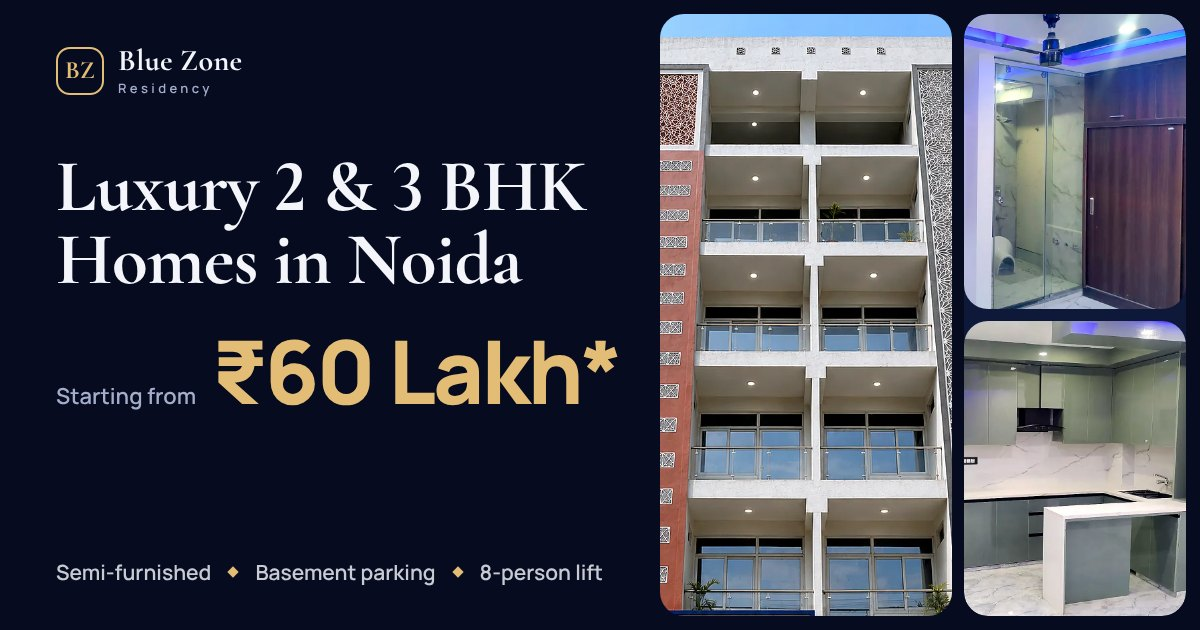
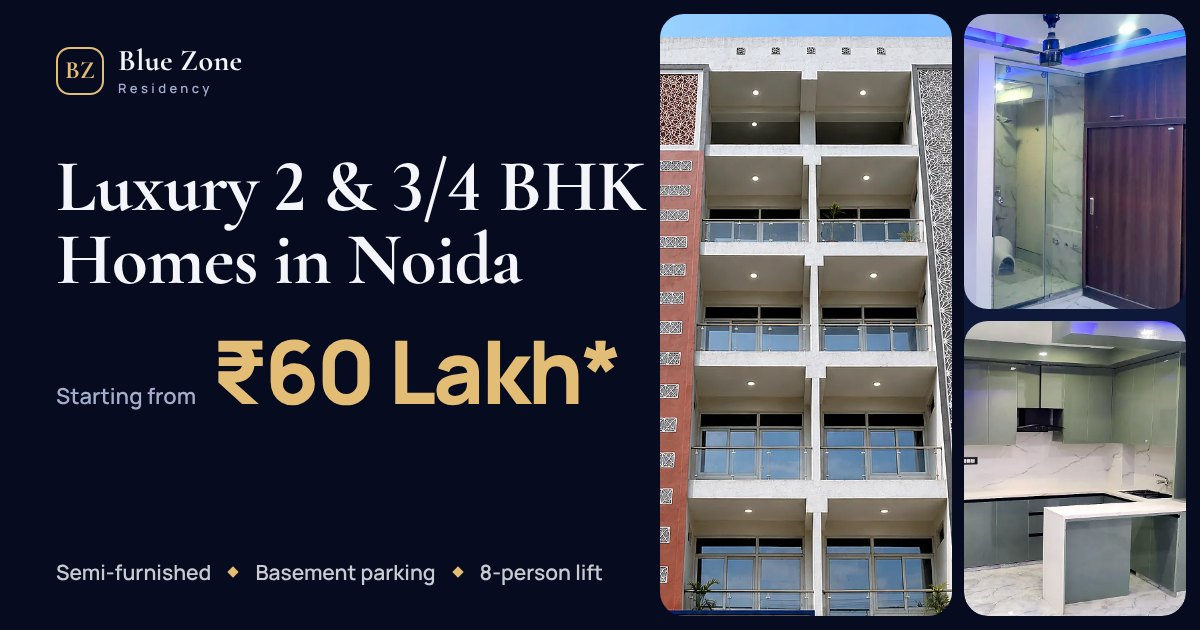
Add files via upload

Changed region(s): [[0.3392, 0.2413, 0.555, 0.3317]]

diff --git a/index.html b/index.html
@@ -3,15 +3,15 @@
 <head>
     <meta charset="UTF-8">
     <meta name="viewport" content="width=device-width, initial-scale=1, viewport-fit=cover">
-    <title>Blue Zone Residency Noida | 2 &amp; 3 BHK Luxury Flats from ₹60 Lakh</title>
-    <meta name="description" content="Semi-furnished 2 &amp; 3 BHK flats in Noida with semi-modular kitchen, wardrobe, basement parking, lift and CCTV. From ₹60 Lakh. Book a site visit at Blue Zone Residency.">
+    <title>Blue Zone Residency Noida | 2 &amp; 3/4 BHK Luxury Flats from ₹60 Lakh</title>
+    <meta name="description" content="Semi-furnished 2 &amp; 3/4 BHK flats in Noida with semi-modular kitchen, wardrobe, basement parking, lift and CCTV. From ₹60 Lakh. Book a site visit at Blue Zone Residency.">
     <meta name="theme-color" content="#060b1f">
     <link rel="canonical" href="https://www.bzr.co.in/">
 
     <!-- Link preview (WhatsApp, Facebook, LinkedIn, X) -->
     <meta property="og:type" content="website">
     <meta property="og:site_name" content="Blue Zone Residency">
-    <meta property="og:title" content="Luxury 2 &amp; 3 BHK Homes in Noida from ₹60 Lakh*">
+    <meta property="og:title" content="Luxury 2 &amp; 3/4 BHK Homes in Noida from ₹60 Lakh*">
     <meta property="og:description" content="Semi-furnished flats with semi-modular kitchen and wardrobe, basement parking, 8-person lift and CCTV. See photos and book your site visit.">
     <meta property="og:url" content="https://www.bzr.co.in/">
     <meta property="og:image" content="https://www.bzr.co.in/og-image.jpg">
@@ -20,7 +20,7 @@
     <meta property="og:image:alt" content="Blue Zone Residency, Noida: jaali facade, interiors and starting price of 60 lakh">
     <meta property="og:locale" content="en_IN">
     <meta name="twitter:card" content="summary_large_image">
-    <meta name="twitter:title" content="Luxury 2 &amp; 3 BHK Homes in Noida from ₹60 Lakh*">
+    <meta name="twitter:title" content="Luxury 2 &amp; 3/4 BHK Homes in Noida from ₹60 Lakh*">
     <meta name="twitter:description" content="Semi-furnished flats, basement parking, 8-person lift and CCTV. Book your site visit.">
     <meta name="twitter:image" content="https://www.bzr.co.in/og-image.jpg">
 
@@ -42,7 +42,7 @@
           "name": "Blue Zone Residency",
           "url": "https://www.bzr.co.in/",
           "image": "https://www.bzr.co.in/og-image.jpg",
-          "description": "Semi-furnished 2 BHK and 3 BHK residences in Noida with semi-modular kitchen, wardrobe, false ceiling, basement parking, 8-person lift, CCTV, steam bath on the roof and terrace garden.",
+          "description": "Semi-furnished 2 BHK and 3/4 BHK residences in Noida with semi-modular kitchen, wardrobe, false ceiling, basement parking, 8-person lift, CCTV, steam bath on the roof and terrace garden.",
           "telephone": "+919650404888",
           "address": { "@type": "PostalAddress", "addressLocality": "Noida", "addressRegion": "Uttar Pradesh", "addressCountry": "IN" },
           "numberOfBedrooms": [2, 3],
@@ -68,9 +68,9 @@
           "@type": "FAQPage",
           "mainEntity": [
             { "@type": "Question", "name": "Are the flats furnished?", "acceptedAnswer": { "@type": "Answer", "text": "The flats are semi-furnished, with a semi-modular kitchen, wardrobe, lights, fans and false ceiling." } },
-            { "@type": "Question", "name": "What materials and fittings are used?", "acceptedAnswer": { "@type": "Answer", "text": "Residences use vitrified tile flooring, granite stone kitchen counters with stainless steel sinks, uPVC window frames with toughened glass and putty with OBD finished walls. The 3 BHK residences feature bathroom fittings from Jaguar, Astral and Hindware." } },
+            { "@type": "Question", "name": "What materials and fittings are used?", "acceptedAnswer": { "@type": "Answer", "text": "Residences use vitrified tile flooring, granite stone kitchen counters with stainless steel sinks, uPVC window frames with toughened glass and putty with OBD finished walls. The 3/4 BHK residences feature bathroom fittings from Jaguar, Astral and Hindware." } },
             { "@type": "Question", "name": "Is basement parking included?", "acceptedAnswer": { "@type": "Answer", "text": "Yes. Basement car parking is part of the building layout for residents." } },
-            { "@type": "Question", "name": "What are the configurations and starting prices?", "acceptedAnswer": { "@type": "Answer", "text": "2 BHK residences (1081 or 1169 sq ft) start from ₹60 Lakh and 3 BHK residences (2250 sq ft) start from ₹1.25 Crore. Prices are indicative; please contact us for current pricing and availability." } },
+            { "@type": "Question", "name": "What are the configurations and starting prices?", "acceptedAnswer": { "@type": "Answer", "text": "2 BHK residences (1081 or 1169 sq ft) start from ₹60 Lakh and 3/4 BHK residences (2250 sq ft) start from ₹1.25 Crore. Prices are indicative; please contact us for current pricing and availability." } },
             { "@type": "Question", "name": "How well connected is the location?", "acceptedAnswer": { "@type": "Answer", "text": "The City Center, Metro Station, hospitals, an international school and the Interstate Bus Stand are about 5 minutes away. Delhi is about 15 minutes away and the upcoming Jewar Airport is about 40 km away." } },
             { "@type": "Question", "name": "How do I book a site visit?", "acceptedAnswer": { "@type": "Answer", "text": "Fill in the enquiry form on this page, message us on WhatsApp or call +91 96504 04888 and our team will confirm a convenient slot." } }
           ]
@@ -161,7 +161,7 @@
         </div>
         <div class="hero-body">
             <h1 class="hero-title" id="heroTitle">
-                <span class="ln"><span>Luxury 2 &amp; 3 BHK</span></span>
+                <span class="ln"><span>Luxury 2 &amp; 3/4 BHK</span></span>
                 <span class="ln"><span>Homes in Noida</span></span>
             </h1>
             <p class="hero-sub">Semi-furnished flats with semi-modular kitchen and wardrobe.</p>
@@ -201,7 +201,7 @@
             <svg class="offer-spark s3" aria-hidden="true"><use href="#i-spark"/></svg>
             <div class="offer-copy">
                 <h2 class="offer-title" id="offerTitle">Diwali Offer</h2>
-                <p class="offer-text">Limited period. A special offer on our 2&nbsp;&amp;&nbsp;3&nbsp;BHK homes. Ask our team for the details.</p>
+                <p class="offer-text">Limited period. A special offer on our 2&nbsp;&amp;&nbsp;3/4&nbsp;BHK homes. Ask our team for the details.</p>
             </div>
             <div class="offer-cta">
                 <button type="button" class="btn btn-ink" data-open-sheet data-message="I would like to know about the Diwali offer.">Get offer details</button>
@@ -294,7 +294,7 @@
             </div>
             <div class="seg" role="tablist" aria-label="Choose a residence type">
                 <button type="button" role="tab" id="tab-2" aria-selected="true" aria-controls="panel-2" class="seg-btn is-on">2 BHK</button>
-                <button type="button" role="tab" id="tab-3" aria-selected="false" aria-controls="panel-3" class="seg-btn" tabindex="-1">3 BHK</button>
+                <button type="button" role="tab" id="tab-3" aria-selected="false" aria-controls="panel-3" class="seg-btn" tabindex="-1">3/4 BHK</button>
             </div>
 
             <article class="res" id="panel-2" role="tabpanel" aria-labelledby="tab-2">
@@ -331,7 +331,7 @@
                     </ul>
                     <div class="res-price"><span>Starting from</span><strong>₹1.25 Crore*</strong></div>
                     <div class="res-cta">
-                        <button type="button" class="btn btn-gold" data-open-sheet data-property="3 BHK (2250 sq ft)">Book Site Visit</button>
+                        <button type="button" class="btn btn-gold" data-open-sheet data-property="3/4 BHK (2250 sq ft)">Book Site Visit</button>
                         <a class="btn btn-line" href="https://wa.me/919650404888?text=Hi%2C%20please%20share%20the%203%20BHK%20price%20and%20floor%20plan%20for%20Blue%20Zone%20Residency." target="_blank" rel="noopener noreferrer"><svg class="i"><use href="#i-wa"/></svg> Get price</a>
                     </div>
                 </div>
@@ -373,7 +373,7 @@
                 </div>
                 <div class="acc-item">
                     <h3><button type="button" class="acc-q" aria-expanded="false" aria-controls="a1" id="q1"><span>What materials and fittings are used?</span><svg class="i"><use href="#i-arrow"/></svg></button></h3>
-                    <div class="acc-a" id="a1" role="region" aria-labelledby="q1"><p>Residences use vitrified tile flooring, granite stone kitchen counters with stainless steel sinks, uPVC window frames with toughened glass, and putty with OBD finished walls. The 3 BHK residences feature bathroom fittings from Jaguar, Astral and Hindware.</p></div>
+                    <div class="acc-a" id="a1" role="region" aria-labelledby="q1"><p>Residences use vitrified tile flooring, granite stone kitchen counters with stainless steel sinks, uPVC window frames with toughened glass, and putty with OBD finished walls. The 3/4 BHK residences feature bathroom fittings from Jaguar, Astral and Hindware.</p></div>
                 </div>
                 <div class="acc-item">
                     <h3><button type="button" class="acc-q" aria-expanded="false" aria-controls="a2" id="q2"><span>Is basement parking included?</span><svg class="i"><use href="#i-arrow"/></svg></button></h3>
@@ -381,7 +381,7 @@
                 </div>
                 <div class="acc-item">
                     <h3><button type="button" class="acc-q" aria-expanded="false" aria-controls="a3" id="q3"><span>What are the configurations and starting prices?</span><svg class="i"><use href="#i-arrow"/></svg></button></h3>
-                    <div class="acc-a" id="a3" role="region" aria-labelledby="q3"><p>2 BHK residences (1081 or 1169 sq ft) start from ₹60 Lakh and 3 BHK residences (2250 sq ft) start from ₹1.25 Crore. Prices are indicative; please contact us for current pricing and availability.</p></div>
+                    <div class="acc-a" id="a3" role="region" aria-labelledby="q3"><p>2 BHK residences (1081 or 1169 sq ft) start from ₹60 Lakh and 3/4 BHK residences (2250 sq ft) start from ₹1.25 Crore. Prices are indicative; please contact us for current pricing and availability.</p></div>
                 </div>
                 <div class="acc-item">
                     <h3><button type="button" class="acc-q" aria-expanded="false" aria-controls="a4" id="q4"><span>How well connected is the location?</span><svg class="i"><use href="#i-arrow"/></svg></button></h3>
@@ -471,7 +471,7 @@
             <legend>I am interested in</legend>
             <label><input type="radio" name="property" value="2 BHK (1081 sq ft)" checked><span>2 BHK<small>1081 sq ft</small></span></label>
             <label><input type="radio" name="property" value="2 BHK (1169 sq ft)"><span>2 BHK<small>1169 sq ft</small></span></label>
-            <label><input type="radio" name="property" value="3 BHK (2250 sq ft)"><span>3 BHK<small>2250 sq ft</small></span></label>
+            <label><input type="radio" name="property" value="3/4 BHK (2250 sq ft)"><span>3/4 BHK<small>2250 sq ft</small></span></label>
         </fieldset>
         <details class="more">
             <summary>Add a preferred date, time or message</summary>

diff --git a/style.css b/style.css
@@ -180,7 +180,7 @@ html.is-locked, html.is-locked body { overflow: hidden; }
 @keyframes kenburns { from { transform: scale(1.16); } to { transform: scale(1); } }
 
 .hero-body { position: relative; z-index: 1; margin-top: -112px; padding: 0 var(--gutter) 30px; background: linear-gradient(180deg, rgba(6, 11, 31, 0) 0, var(--bg) 64px); }
-.hero-title { font: 700 clamp(2.5rem, 11.6vw, 4.6rem)/.98 var(--f-display); letter-spacing: -.012em; }
+.hero-title { font: 700 clamp(2.3rem, 10.2vw, 4.1rem)/.98 var(--f-display); letter-spacing: -.012em; }
 .hero-title .ln { display: block; overflow: hidden; padding-bottom: .08em; margin-bottom: -.08em; }
 .hero-title .ln > span { display: block; animation: rise 1s var(--ease) .15s both; }
 .hero-title .ln:nth-child(2) > span { animation-delay: .3s; }
@@ -491,7 +491,7 @@ html.is-locked, html.is-locked body { overflow: hidden; }
     .hero-img { object-position: 50% 30%; }
     .hero-body { width: min(1180px, 100% - 2 * var(--gutter)); margin: 0 auto; padding: 130px 0 90px; background: none; }
     .hero-body > * { max-width: 540px; }
-    .hero-body > .hero-title { max-width: 760px; font-size: clamp(3.6rem, 5.6vw, 5.2rem); }
+    .hero-body > .hero-title { max-width: 760px; font-size: clamp(3.3rem, 5.1vw, 4.8rem); }
     .hero-title .ln { white-space: nowrap; }
     .hero-sub { font-size: 18px; }
     .hero-cta { grid-template-columns: auto auto; justify-content: start; }

diff --git a/main.js b/main.js
@@ -10,7 +10,7 @@
     // Web3Forms public key (safe in the browser). Restrict it to bzr.co.in in the Web3Forms dashboard.
     const ACCESS_KEY = '3eae7367-7a3d-4220-a1f2-fa63970c84bd';
     const PHONE_RE = /^(?:\+?91)?[6-9]\d{9}$/;
-    const SHARE = { title: 'Blue Zone Residency, Noida', text: 'Luxury 2 & 3 BHK homes in Noida from ₹60 Lakh*', url: 'https://www.bzr.co.in/' };
+    const SHARE = { title: 'Blue Zone Residency, Noida', text: 'Luxury 2 & 3/4 BHK homes in Noida from ₹60 Lakh*', url: 'https://www.bzr.co.in/' };
 
     /* ---------- helpers ---------- */
     let locks = 0;
@@ -191,7 +191,7 @@
     }, { passive: true });
     stage.addEventListener('click', e => { if (e.target === stage) closeLb(); });
 
-    /* ---------- 2 BHK / 3 BHK tabs ---------- */
+    /* ---------- 2 BHK / 3/4 BHK tabs ---------- */
     const tabs = $$('.seg-btn');
     const selectTab = t => {
         tabs.forEach(b => {
